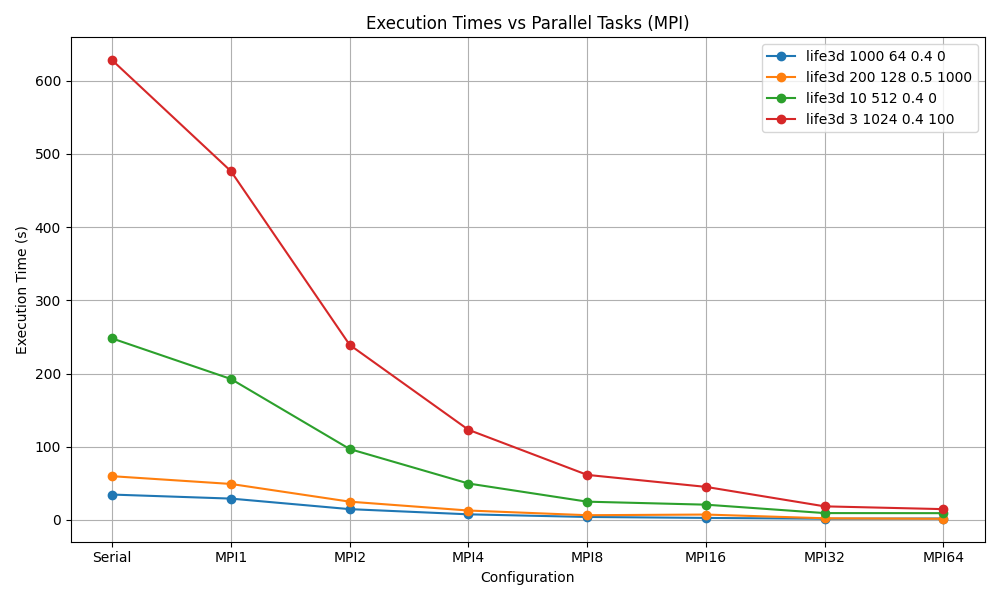
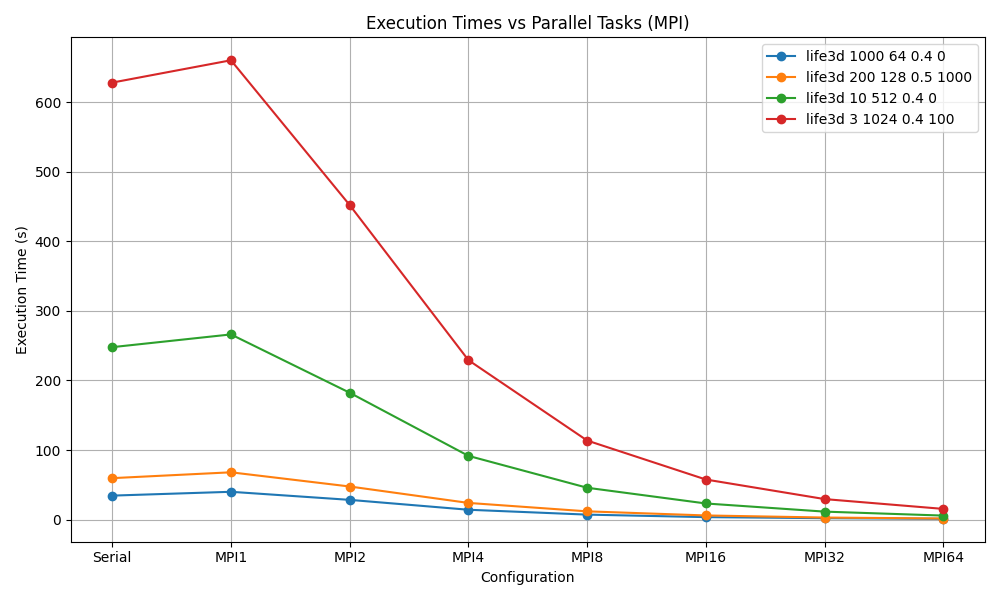
Update MPI execution times and speedup

diff --git a/mpi/draw-plot.py b/mpi/draw-plot.py
@@ -13,10 +13,10 @@ parallel_tasks = [1, 2, 4, 8, 16, 32, 64]
 serial_times = [34.6, 59.7, 247.9, 628.0]
 
 mpi_times = [
-    [29.1, 14.7, 7.6, 4.0, 2.7, 1.6, 1.9],
-    [49.1, 24.9, 12.8, 6.4, 7.3, 2.2, 1.5],
-    [192.5, 96.8, 49.7, 24.9, 20.8, 9.3, 9.2],
-    [476.4, 239.1, 123.1, 61.5, 45.1, 18.5, 14.7]
+    [40.1, 28.5, 14.3, 7.3, 3.7, 2.2, 1.3],
+    [68.1, 47.7, 24.1, 12.0, 6.1, 3.1, 1.7],
+    [266.2, 182.4, 91.7, 45.9, 23.3, 11.6, 5.9],
+    [660.1, 452.0, 229.2, 113.7, 57.7, 29.6, 15.5]
 ]
 
 speedup_mpi = [
